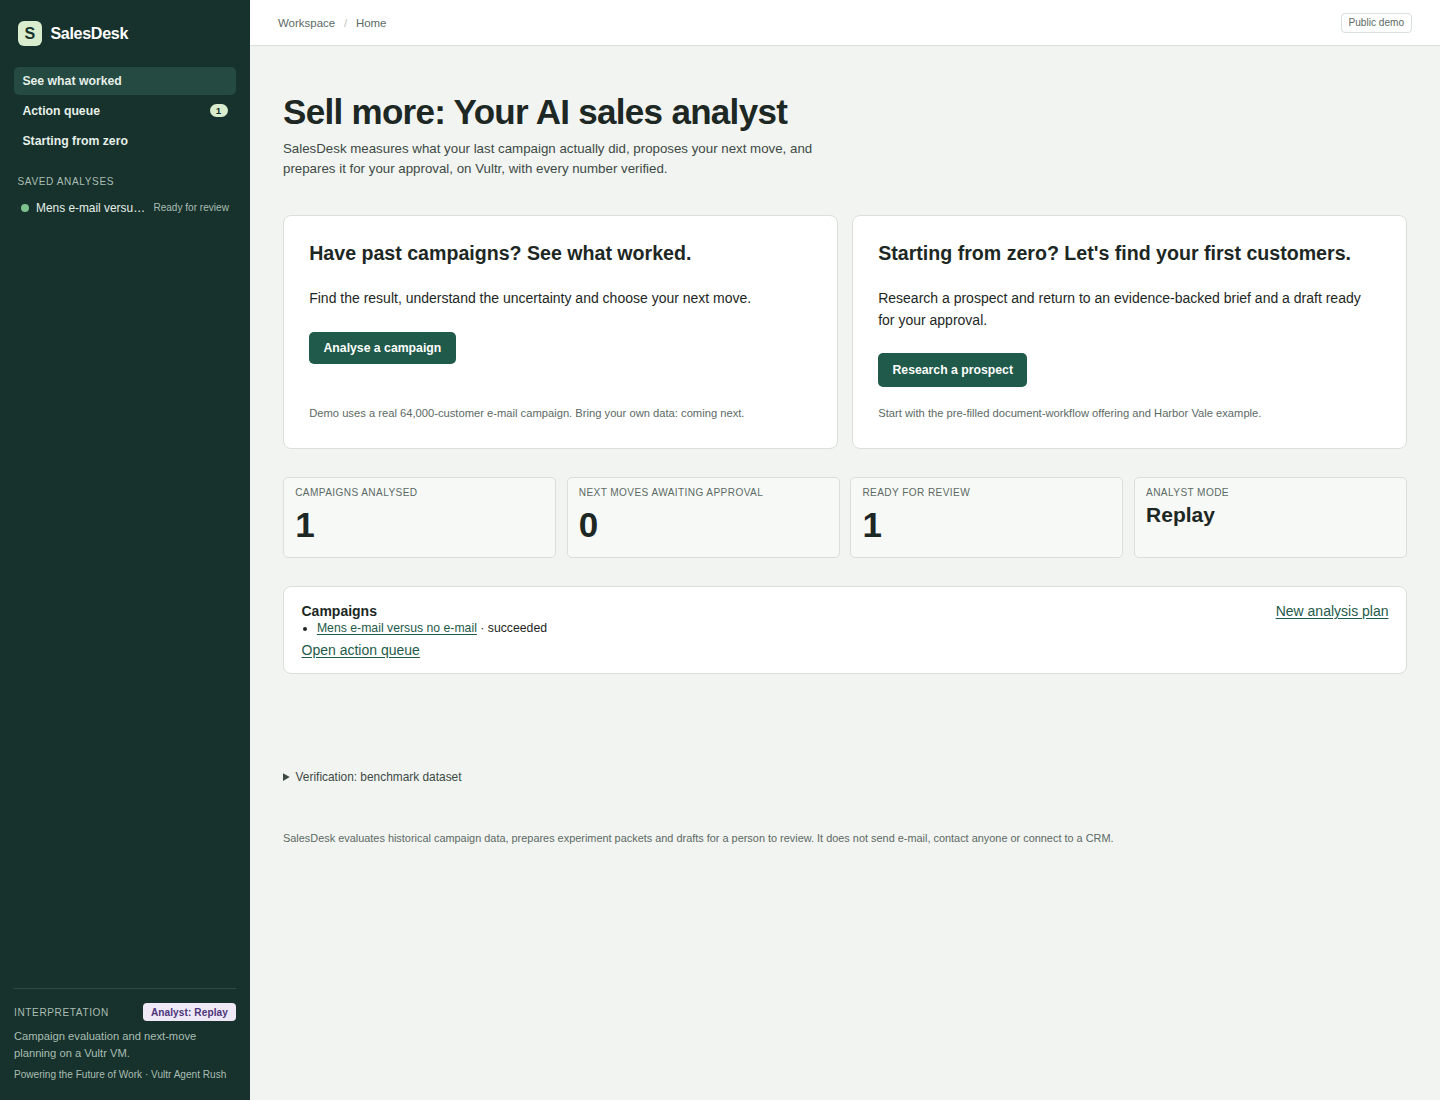
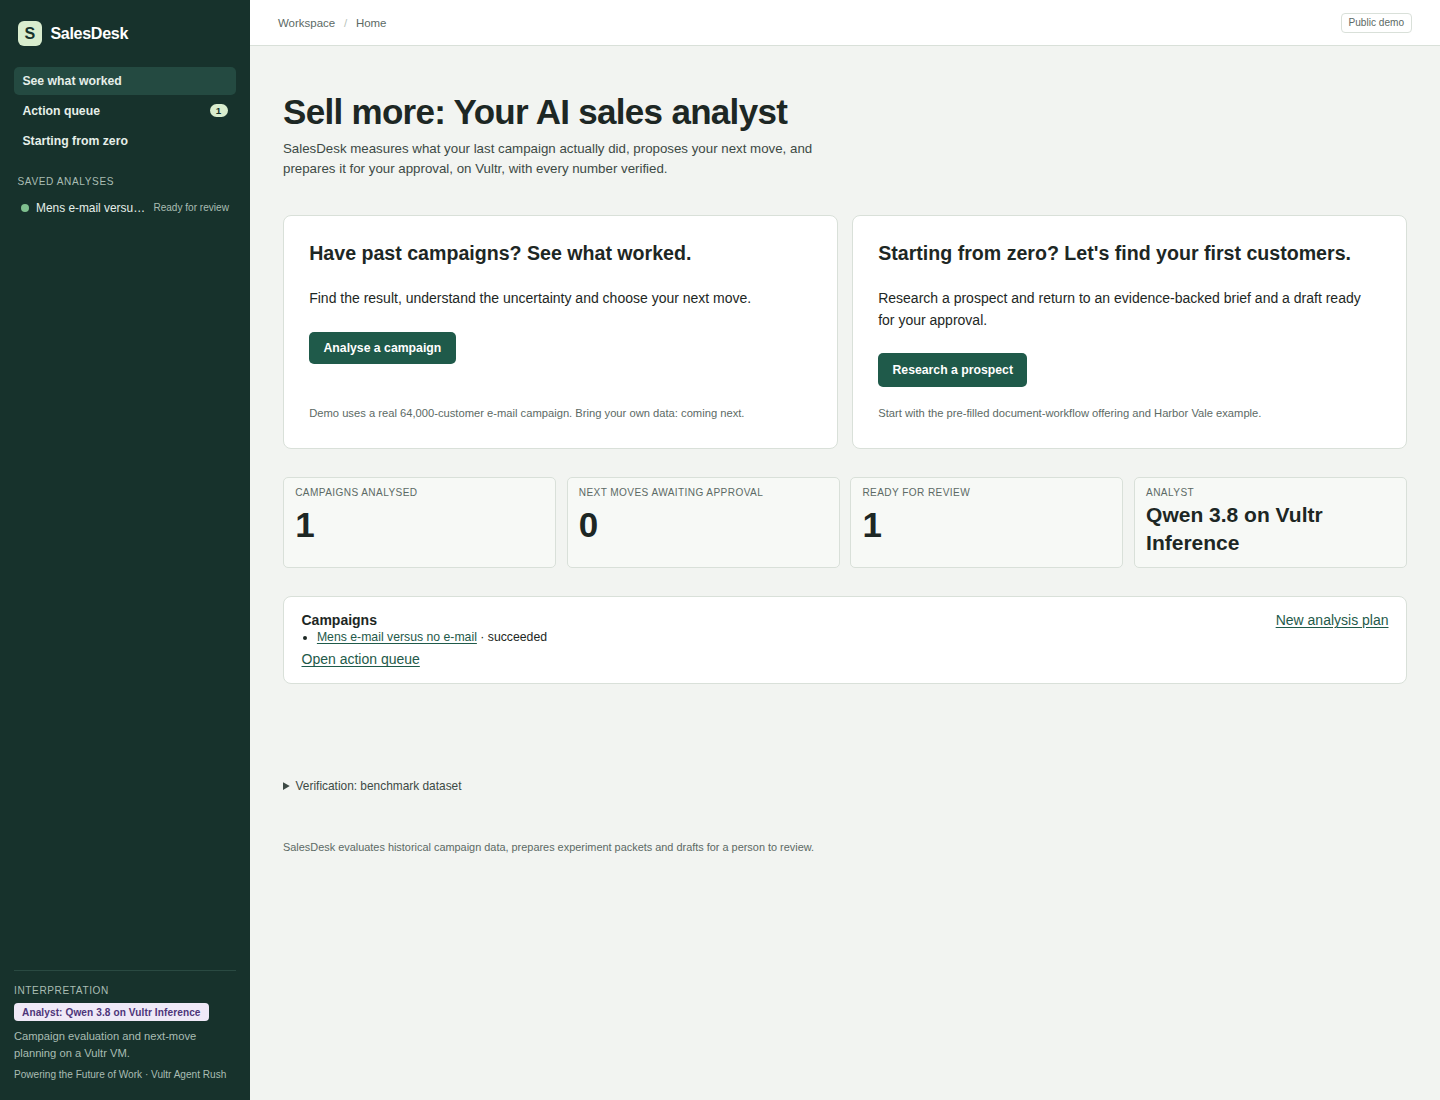
Verify Vultr presentation release, refresh public screenshots and record acceptance

diff --git a/frontend/src/style.css b/frontend/src/style.css
@@ -211,9 +211,13 @@ h3 {
 }
 .side-mode {
   display: flex;
-  justify-content: space-between;
-  align-items: center;
+  flex-direction: column;
+  align-items: flex-start;
   gap: 0.5rem;
+}
+.side-mode .badge {
+  max-width: 100%;
+  white-space: normal;
 }
 .side-mode-label {
   font-size: 0.72rem;

diff --git a/STATUS.md b/STATUS.md
@@ -3,10 +3,11 @@
 Product name: **SalesDesk** (renamed from ProofDesk on 2026-11-05). Existing operational
 identifiers and dated historical entries retain their original names.
 
-Current checkpoint: **SalesDesk is publicly deployed on HTTPS**, with two entry doors,
-validated live Vultr inference for all three contracts, isolated seeded examples, an
-activity trace, combined approval/scheduling and ready packet downloads. All requested phases are implemented; phase commits and final verification are recorded below. Public requests for
-identical inputs use labelled accepted replay. Video recording, PDF export and official
+Current checkpoint: **SalesDesk is publicly deployed on HTTPS** with the presentation
+refresh described below: Qwen analyst labels, takeaway-first readings, a vertical activity
+trace, result → next move → packet order, compact launch inputs and technical details under
+Verification. Seeded sessions use the refreshed accepted reading; a new Womens E-Mail
+comparison has passed with fresh Vultr inference. Video recording, PDF export and official
 submission remain open; no submission receipt exists.
 
 Public URL: https://salesdesk.149.28.51.139.sslip.io
@@ -784,3 +785,61 @@ allowing untrusted code. Select and evaluate Vultr models with an authorized cal
   reservation still counted in full. This is token accounting, not account billing.
 - Frontend builds after steps 2–3 and replay regression checks passed. Validator, replay
   dispatch mechanism, sandbox policy, source rules and approval bindings are unchanged.
+
+
+## Presentation refresh, steps 5–9 and public acceptance: 2026-11-05 ET
+
+- Step 5 (`8d0bbcc`): metric references, exploratory breakdowns and the retrospective
+  badge moved into Verification. The home disclaimer sentence remains in README only.
+- Step 6 (`21cda1c`): activity is a single vertical column, preserving steps and disclosures.
+- Step 7 (`85ef769`): outreach/brief currency displays as $16.00. Stored evidence and
+  draft bytes/hashes are preserved; formatting alone does not create an unsaved edit.
+- Step 8 (`2457e61`): slides cite Salesforce's seventh State of Sales and its 2026 report
+  announcement for sales workload/capacity evidence. Cost slide uses explicitly assumed
+  team-hours; inference cost moved to architecture; Hillstrom result moved to the demo.
+  Slide 6 reports 18.38 seconds measured in SalesDesk's own recorded workflow, with exact
+  timestamps and scope in docs/workflow-measurement.json. Submission title and script
+  match owner copy; the script uses a fresh Womens comparison and a longer close/reopen beat.
+- Step 9: redeployed the allowlisted release on the existing Vultr VM, retaining all
+  .local records, accepted caches, budget ledgers and root-owned service configuration.
[1 lines of base64/hex data omitted]
+  Verified archive checksum and every installed manifest file hash (67 files). A rollback
+  snapshot exists. The final visual fix keeps the longer Qwen badge inside the sidebar.
+- Final public HTTP journey passed on this release: genuine Docker statistics,
+  reproducible artifact bytes, stale-version approval refusal, packet preparation while
+  absent, Markdown download, review completion and cross-session 404s. Evidence:
+  .local/deployment/presentation-final-public-journey.json.
+- Fresh external Chromium session passed without TLS exceptions: refreshed seed cache
+  identity, Qwen/cached tooltip, requested content order, hidden technical details,
+  closed launch-input disclosure, vertical activity, new Womens E-Mail vs No E-Mail live
+  inference, dirty-edit refusal, exact-version approval, packet completion while closed,
+  reopen/download, $16.00 outreach, and desktop/mobile without overflow or page errors.
+  Final live plan: `452be24f88c34fadac0978f8289f8ba9`. It passed on its first run.
+  Tab closed at 2026-11-06T03:34:56.742Z, packet ready at 2026-11-06T03:36:01.402263+00:00,
+  reopened at 2026-11-06T03:36:06.851Z. Evidence: .local/live-preflight/live-browser.json
+  and .local/deployment/presentation-public-acceptance.json. All five docs/assets images
+  were retaken from this release; desktop/mobile and result/outreach layouts inspected.
+- Full suite passed before release and after the initial public screenshots: 97 backend
+  tests with Docker enabled, no skips; frontend build, locked sync, Ruff lint/format,
+  compileall, publication/local-link checks and disposable mocked-browser checks passed.
+  Final post-screenshot suite also passed all 97 tests with Docker enabled, no skips
+  (.local/step9-final-full-suite.log); final build, lint, format, compile, locked sync
+  and repository checks passed. Latest mocked-browser evidence is
+  .local/step9-final-mocked-browser.log.
+- Corrected verification harness issues: an initial health assertion expected "ok" while
+  the existing health contract returns "experiment_workspace" (HTTP 200); a browser
+  timestamp with seconds was refused by Playwright's datetime-local fill. The corrected
+  minute-precision scheduling input passed. These failures are not counted as passes.
+- Three fresh VM Womens responses passed the unchanged contract, including the final
+  screenshot run. VM reservations: 3 / $0.0060288; estimated token usage $0.0015611.
+  This presentation task added 13 paid requests across local/VM: $0.0261248 reserved,
+  $0.0066944 estimated usage. Total current+prior reservations across local/VM now
+  $0.0562880; hackathon observed usage estimate $0.0106624. Prior uncertain reservation
+  remains fully counted. No new compute, budget-limit expansion or ledger reset; these
+  are token estimates, separate from account/compute billing and the owner's $150 cap.
+- Source comparison against the step-1 merge confirms every execution/sandbox file,
+  validator, provider/replay mechanism, service/store/job state rule and approval binding
+  is unchanged. Backend changes are confined to the analysis SYSTEM prompt.
+- Untracked docs/session-prompts/ and screenshot-2026-11-05.png remain untouched. The
+  video script is prepared and its live journey rehearsed; no narrated recording, PDF
+  export or official hackathon submission/receipt is claimed.

diff --git a/docs/public-demo.md b/docs/public-demo.md
@@ -24,8 +24,10 @@ Public sessions select Live by default. `PROOFDESK_ANALYSIS_LIVE_PLAN`,
 Configuration is outside the release archive in a root-only systemd drop-in. The worker
 receives controller credentials; disposable execution sandboxes never receive them.
 
-Identical requests prefer accepted saved responses, revalidate them and show Analyst:
-Replay. New inputs use Vultr under durable batch/envelope limits and show Analyst: Live.
+Identical requests prefer accepted saved responses and revalidate them. Both cached and
+new responses show Analyst: Qwen 3.8 on Vultr Inference; cached responses have a cached
+response tooltip and retain saved_replay provenance in Verification. New inputs use Vultr
+under the existing durable batch/envelope limits.
 A genuine failure is visible. No failed step is silently replaced by rule-based text.
 Private mode can use explicitly labelled rule-based analysis without a credential.
 

diff --git a/README.md b/README.md
@@ -11,7 +11,7 @@ lead to an analyst, a next move, your approval and work prepared while you are a
 
 1. Open the demo and let the Vultr workers prepare your isolated example workspace.
 2. Choose **Analyse a campaign**. Read the benchmark result and expand Analyst activity.
-3. Open **Next move**, add a note and **Save next move**, then **Approve & schedule**.
+3. Scroll to **Next move**, add a note and **Save next move**, then **Approve & schedule**.
 4. Close the tab. Return to **Ready for review** and download your Markdown packet.
 5. Try **Starting from zero** for a sourced example brief and an unsent outreach draft.
 
